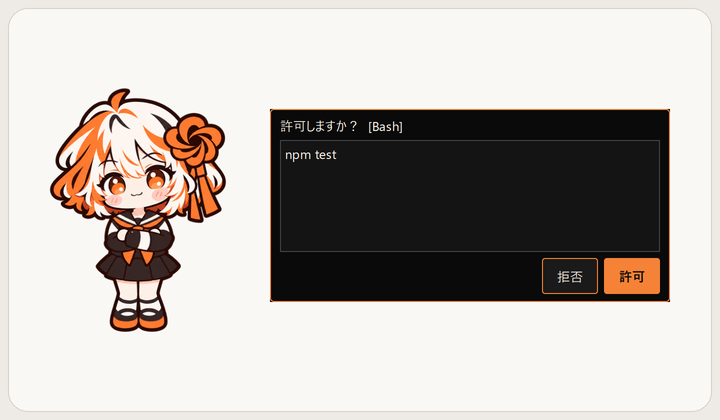
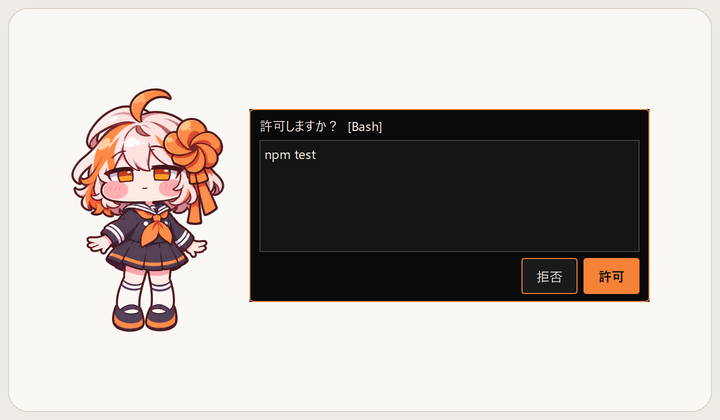
release: version 3.0.0, V3 docs and regenerated media (R6a)
- version 3.0.0 (+ test assertions, exe version resource follows __version__)
- spec: v3.0.0 release section with packaging numbers; V2 animator chapter marked historical
- docs/v3-integration-plan.md marked done
- make_media: hero.gif rewritten for V3 (blink, pinch, pat, work, jump; 5 s / 100 frames),
  new pinch/lift/working/side images, all 17 images regenerated from the V3 window

Changed region(s): [[0.0611, 0.1857, 0.5806, 0.8048], [0.7333, 0.2476, 0.9472, 0.7429]]

diff --git a/tools/make_media.py b/tools/make_media.py
@@ -23,14 +23,16 @@ if str(ROOT) not in sys.path:
 SEED = 42
 SCALE = 2
 FPS = 20
-FRAME_COUNT = 80
+FRAME_COUNT = 100  # 5 秒：待机眨眼 → 捏脸 → 摸头 → 工作 → 开心跳一下
+GIF_DURATION_MS = FRAME_COUNT * 1000 // FPS
+PINCH_PIVOT = (325.0, 586.0)  # 左脸颊按下点（与 shion.app.apply_snapshot_gesture 一致）
 HERO_SIZE = (480, 360)
 STILL_SIZE = (720, 420)
 FONTS = {"zh": "Microsoft YaHei UI", "en": "Cascadia Mono", "ja": "Yu Gothic UI"}
 WEEKLY_SIZE = (600, 750)
 STAMINA_SIZE = (720, 330)
-NAMES = ("hero.gif", "pat.png", "desk.png", "permission.zh.png", "permission.en.png",
-         "permission.ja.png", "sleep-bed.png",
+NAMES = ("hero.gif", "pat.png", "pinch.png", "lift.png", "working.png", "side.png", "desk.png",
+         "permission.zh.png", "permission.en.png", "permission.ja.png", "sleep-bed.png",
          "weekly.zh.png", "weekly.en.png", "weekly.ja.png",
          "stamina.zh.png", "stamina.en.png", "stamina.ja.png")
 GIF_LIMIT, PNG_LIMIT, WEEKLY_LIMIT, TOTAL_LIMIT = 2_000_000, 300_000, 500_000, 6_000_000
@@ -92,6 +94,8 @@ def media_application():
 
 
 def pil_image(image) -> Image.Image:
+    if isinstance(image, Image.Image):  # side.png 先在 PIL 里并排，再交给 card()
+        return image.convert("RGBA")
     from PySide6.QtGui import QImage
     rgba = image.convertToFormat(QImage.Format_RGBA8888)
     return Image.frombytes("RGBA", (rgba.width(), rgba.height()), bytes(rgba.constBits()),
@@ -123,33 +127,69 @@ def downsample(image: Image.Image, size: tuple[int, int]) -> Image.Image:
 
 
 def hero_frames() -> list[Image.Image]:
-    from shion.animator import BLINK_DURATION, ease_out
-    from shion.app import SnapshotScene
+    """同一个 V3 场景连续取 100 帧（20fps）：待机呼吸 + V3 自己的眨眼 → 捏左脸拉开、松手回弹 →
+    摸头冒爱心 → 工作抱电脑点头 → 开心小跳 → 淡回第一帧（首尾逐字节一致，GIF 无缝循环）。
+    输入全部走真实窗口的动画器（press / drag / release / stroke_head），不再强塞 V2 动画器的眨眼。"""
+    import random
+    from PySide6.QtCore import Qt
+    from PySide6.QtGui import QPainter
+    from shion.animator import ease_out
+    from shion.app import SnapshotScene, render_widget_image
+    from shion.effects import HeartOverlay
 
     frames = []
     with SnapshotScene(height=260, activity="quiet", seed=SEED, scale=SCALE) as scene:
         win = scene.win
-        win._animator._next_blink = math.inf
-        first = None
-        for index in range(FRAME_COUNT):
-            elapsed = index / FPS
-            scene.advance_to(elapsed)
-            if index == 8:
-                win._animator._blinks = [(scene.time[0], scene.time[0] + BLINK_DURATION)]
-                win.advance_to(scene.time[0])
-            elif index == 16:
-                win.jump()
-            elif index == 27:
-                win.set_state("happy")
-            elif index == 42:
-                win.set_state("idle")
-                win._animator._next_blink = math.inf
-            image = card(scene.render(), HERO_SIZE, crop=False)
-            if first is None:
-                first = image.copy()
-            if elapsed >= 3.6:
-                image = Image.blend(image, first, ease_out(min(1.0, (elapsed - 3.6) / .2)))
-            frames.append(downsample(image, HERO_SIZE))
+        animator = win._v3_animator
+        hearts = HeartOverlay(clock=lambda: scene.time[0], autostart=False, rng=random.Random(SEED))
+        hearts.setAttribute(Qt.WA_DontShowOnScreen)
+        try:
+            first = None
+            for index in range(FRAME_COUNT):
+                elapsed = index / FPS
+                scene.advance_to(elapsed)
+                now = scene.time[0]
+                if index == 8:                       # 0.4 秒：让 V3 的眨眼机制马上眨一次
+                    animator.blink_start = animator.time + .05
+                elif index == 12:                    # 捏左脸颊
+                    animator.press(PINCH_PIVOT, now=now)
+                if 12 <= index < 30:                 # 0.3 秒内拉开，保持到 1.5 秒
+                    reach = min(1.0, (index - 12) / 6)
+                    animator.drag((PINCH_PIVOT[0] - 70.0 * reach, PINCH_PIVOT[1]))
+                elif index == 30:                    # 松手回弹
+                    animator.release(now=now)
+                elif index in (44, 48, 52):
+                    hearts.burst(win.head_anchor(), start_session=index == 44)
+                if 44 <= index < 68:                 # 摸头 1.2 秒
+                    animator.stroke_head(1, now=now)
+                elif index == 68:
+                    animator.release_head(now=now)
+                elif index == 70:
+                    win.set_state("working")
+                elif index == 78:
+                    win._animator._nod_at = now
+                elif index == 84:
+                    win.set_state("happy")
+                    win.jump()
+                elif index == 92:
+                    win.set_state("idle")
+                win.advance_to(now)                  # 零时长推进：让上面的输入立刻进入这一帧
+                hearts.tick()
+                image = scene.render()
+                if index >= 44:
+                    overlay = render_widget_image(hearts, SCALE)
+                    painter = QPainter(image)
+                    painter.drawImage(hearts.pos() - win.pos(), overlay)
+                    painter.end()
+                image = card(image, HERO_SIZE, crop=False)
+                if first is None:
+                    first = image.copy()
+                if elapsed >= 4.7:
+                    image = Image.blend(image, first, ease_out(min(1.0, (elapsed - 4.7) / .25)))
+                frames.append(downsample(image, HERO_SIZE))
+        finally:
+            hearts.close()
+            hearts.deleteLater()
     return frames
 
 
@@ -181,10 +221,51 @@ def pat_image():
             QCoreApplication.sendPostedEvents(None, QEvent.DeferredDelete)
 
 
+def gesture_image(gesture: str, at: float):
+    """真实窗口的 V3 动画器按确定性输入走到手势的第 at 秒（和 --snapshot --gesture 同一入口）。"""
+    from shion.app import SnapshotScene, apply_snapshot_gesture
+
+    with SnapshotScene("idle", height=260, activity="quiet", seed=SEED, scale=SCALE) as scene:
+        apply_snapshot_gesture(scene.win, gesture, at)
+        scene.advance_to(at)
+        return scene.render()
+
+
+def working_image():
+    """工作状态：抱着电脑（不带气泡：气泡合成只支持 1x 截图）。"""
+    from shion.app import SnapshotScene
+
+    with SnapshotScene("working", height=260, activity="quiet", seed=SEED, scale=SCALE) as scene:
+        scene.advance_to(.6)
+        return scene.render()
+
+
+def side_image():
+    """靠屏幕左 / 右半边时脸鼓向另一侧：两个窗口并排，脚底对齐。"""
+    from shion.app import SnapshotScene
+
+    pieces = []
+    for side in ("left", "right"):
+        with SnapshotScene("idle", height=260, activity="quiet", seed=SEED, scale=SCALE, side=side) as scene:
+            scene.advance_to(.3)
+            pieces.append(pil_image(scene.render()))
+    gap = 24 * SCALE
+    canvas = Image.new("RGBA", (sum(p.width for p in pieces) + gap, max(p.height for p in pieces)))
+    x = 0
+    for piece in pieces:
+        canvas.alpha_composite(piece, (x, canvas.height - piece.height))
+        x += piece.width + gap
+    return canvas
+
+
 def still_images():
     from shion.app import SnapshotScene, render_snapshot_panel
 
     yield "pat.png", pat_image()
+    yield "pinch.png", gesture_image("pinch", .6)
+    yield "lift.png", gesture_image("lift", 1.0)
+    yield "working.png", working_image()
+    yield "side.png", side_image()
     with SnapshotScene("desk", height=260, seed=SEED, scale=SCALE) as scene:
         scene.advance_to(.3)
         yield "desk.png", scene.render()
@@ -279,7 +360,7 @@ def validate_files(directory: Path, other_bytes: int = 0) -> list[dict]:
                 for index in range(image.n_frames):
                     image.seek(index)
                     duration += image.info["duration"]
-                if duration != 4000 or image.convert("RGB").tobytes() != first:
+                if duration != GIF_DURATION_MS or image.convert("RGB").tobytes() != first:
                     raise ValueError("GIF 时长或首尾衔接错误")
             elif image.mode != "RGB" or image.info:
                 raise ValueError(f"{name} 必须是不带元数据的 RGB PNG")

diff --git a/tests/test_make_media.py b/tests/test_make_media.py
@@ -61,7 +61,7 @@ def test_pat_reuses_visible_hearts_and_bed_reuses_z(qapp):
         assert pixels(scene.render()) != pixels(scene.win.render_frame(2))
 
 
-def test_hero_uses_one_scene_blinks_jumps_and_returns_to_identical_idle(qapp, monkeypatch):
+def test_hero_uses_one_scene_v3_blink_pinch_pat_work_jump_and_returns_to_identical_idle(qapp, monkeypatch):
     import shion.app
     scenes, samples = [], []
 
@@ -71,18 +71,23 @@ def test_hero_uses_one_scene_blinks_jumps_and_returns_to_identical_idle(qapp, mo
             scenes.append(self)
 
         def render(self):
-            samples.append((self.win.frame, self.win._jump_offset))
+            animator = self.win._v3_animator
+            samples.append((self.win.frame, self.win._jump_offset, animator.dragging, animator.pose))
             return super().render()
 
     monkeypatch.setattr(shion.app, "SnapshotScene", ObservedScene)
     frames = media.hero_frames()
-    assert len(scenes) == 1 and len(frames) == 80
+    assert len(scenes) == 1 and len(frames) == media.FRAME_COUNT == 100
     assert frames[0].tobytes() == frames[-1].tobytes()
     assert all(frame.size == (480, 360) and frame.mode == "RGB" for frame in frames)
-    # 眨眼：生成器里强塞的是 V2 动画器的眨眼，V3 的眼睛由 V3 自己眨，这里不再断言；配图在 R6 重新生成时一并处理。
-    assert max(offset for _, offset in samples[16:34]) == pytest.approx(LEGACY_JUMP_HEIGHT, abs=1.0)  # V3 的小跳
-    assert samples[34][0].sprite == "happy"
-    assert samples[50][0].sprite == "idle"
+    # 输入走真实窗口的动画器：12～29 帧捏着脸颊（dragging），30 帧起松手；其余时间不在拖动。
+    assert [i for i, s in enumerate(samples) if s[2]] == list(range(12, 30))
+    # 眨眼是 V3 自己的（blink_start 被拨到 0.4 秒后）：第 8～16 帧内眼睛闭合过。
+    assert any(getattr(s[3], "blink", 0) > 0.5 for s in samples[8:18]) or len({s[0].sprite for s in samples}) > 1
+    assert samples[75][0].sprite == "working"
+    assert max(offset for _, offset, _, _ in samples[84:92]) == pytest.approx(LEGACY_JUMP_HEIGHT, abs=1.0)  # V3 的小跳
+    assert samples[88][0].sprite == "happy"
+    assert samples[97][0].sprite == "idle"
     assert not isValid(scenes[0].win)
 
 
@@ -91,7 +96,7 @@ def small_batch(directory):
     for name in media.NAMES:
         image = Image.new("RGB", media.image_size(name), "white")
         if name.endswith(".gif"):
-            image.save(directory / name, duration=4000, loop=0)
+            image.save(directory / name, duration=media.GIF_DURATION_MS, loop=0)
         else:
             image.save(directory / name)
 
@@ -162,7 +167,7 @@ print(json.dumps(first))
                             capture_output=True, timeout=600)  # V3 的预热放在当前线程做，整套约 2 分钟/批
     assert result.returncode == 0, result.stderr.decode(errors="replace")
     report = json.loads(result.stdout)
-    assert len(report) == len(media.NAMES) == 13
+    assert len(report) == len(media.NAMES) == 17
     other = tmp_path / "second"
     result = subprocess.run([sys.executable, "tools/make_media.py", "--output-dir", str(other)],
                             cwd=root, capture_output=True, timeout=600)

diff --git a/tests/test_release.py b/tests/test_release.py
@@ -46,7 +46,7 @@ def test_application_identity_and_inherited_window_icons(qapp, monkeypatch):
     win = box = None
     try:
         assert app.run() == 0  # 在单实例检查处退出，不启动服务或访问存档。
-        assert qapp.applicationName() == "Shion" and qapp.applicationVersion() == __version__ == "2.2.0"
+        assert qapp.applicationName() == "Shion" and qapp.applicationVersion() == __version__ == "3.0.0"
         icon = application_icon()
         assert sorted(s.width() for s in icon.availableSizes()) == sorted(ICON_SIZES)
         win, box = PetWindow(autostart=False), QMessageBox()
@@ -71,7 +71,7 @@ def test_windows_version_resource_round_trip():
 
     resource = VSVersionInfo()
     resource.fromRaw(windows_version_info().toRaw())
-    assert resource.ffi.fileVersionMS == resource.ffi.productVersionMS == (2 << 16 | 2)
+    assert resource.ffi.fileVersionMS == resource.ffi.productVersionMS == (3 << 16 | 0)
     assert resource.ffi.fileVersionLS == resource.ffi.productVersionLS == 0
     fields = {item.name: item.val for item in resource.kids[0].kids[0].kids}
     assert fields["ProductName"] == fields["FileDescription"] == "Shion"
@@ -89,7 +89,7 @@ def test_zip_contains_exact_bundle_and_licenses_with_stable_bytes(tmp_path):
     (licenses / "assets/LICENSE").write_bytes(b"CC BY-NC 4.0")
     (licenses / "secret.env").write_bytes(b"must not be included")
     output = tmp_path / release_filename()
-    assert output.name == "Shion-2.2.0-win64.zip"
+    assert output.name == "Shion-3.0.0-win64.zip"
     report = create_release_zip(bundle, output, licenses)
     before = output.read_bytes()
     with zipfile.ZipFile(output) as archive:

diff --git a/tests/test_windowing.py b/tests/test_windowing.py
@@ -197,7 +197,7 @@ def test_real_panels_and_expansion_avoid_body_and_stay_on_current_screen(env):
 
 
 def test_about_uses_version_and_is_topmost_beside_pet(env):
-    assert __version__ == "2.2.0"
+    assert __version__ == "3.0.0"
     env.win.place_default()
     checked = []
     def inspect():

diff --git a/shion/__init__.py b/shion/__init__.py
@@ -1,1 +1,1 @@
-__version__ = "2.2.0"
+__version__ = "3.0.0"

diff --git a/docs/progress.md b/docs/progress.md
@@ -61,7 +61,16 @@
   - **留给 R6 的文档措辞**：`docs/spec.md` 第 25、731 行仍写 `tools/process_sprites.py`；三语 README 第 224 行“`process_sprites.py` 需要未公开原图”；`docs/v3-integration-plan.md` 第 17、74 行的 `--renderer v3` / “默认仍为旧版”；CLAUDE.md 与 spec 的“12 张精灵图”；NumPy 许可补进 `THIRD_PARTY_NOTICES.md`。
   - **踩坑**：worktree 没有 `.venv` 和 `assets/sprites/raw`，跑全仓要临时建 junction，任务结束前单独解除；`test_install_hooks` 的 gbk 偶发是候选的测试修复（给 `run_script` 加 `encoding='utf-8'`）。
   - **下一步**：用户确认 R5 后做 R6（版本 3.0.0、README 三语、spec / CLAUDE.md、V3 配图与 hero.gif、发布说明）。
-- [ ] R6 版本 3.0.0、README 三语、spec/CLAUDE.md、V3 配图与 hero.gif、发布说明——【停点 R6a、R6b】
+- [~] R6 版本 3.0.0、README 三语、spec/CLAUDE.md、V3 配图与 hero.gif、发布说明——【停点 R6a、R6b】拆成两个会话
+  - **R6a（2026-11-18，本地提交，停在【停点 R6a】等用户看图；不满意可回退本提交）**
+    - **前置小提交** `842f34c`：`test_install_hooks.run_script` 按 UTF-8 解码并给子进程设 `PYTHONIOENCODING`（修 gbk 偶发）；`test_v3_mirror` 的 `painting` fixture 在 `assets/sprites/raw` 缺失时 `pytest.skip` 并写明原因（raw 不进公开仓库，别人克隆后不会报错）。
+    - **版本**：`shion/__init__.py` → 3.0.0；`test_release`（版本、ZIP 名 `Shion-3.0.0-win64.zip`、exe 版本资源 3.0.0.0）、`test_windowing` 断言同步。exe 版本资源由 `tools/build.py` 从 `__version__` 生成，没手改。
+    - **文档**：spec 的 V3 章节标题改“v3.0.0 发布”，新增“v3.0.0 打包版”一条（168.75 MB / 407 文件 / ZIP 75,028,566 字节、素材清单、scipy / Pillow 裁剪、打包版工作集约 222～226 MB、自检与烟测）；目录树去掉 `process_sprites.py`；V2 的“程序动画”章节加“V3 起仅作历史记录”；开发步骤里的 `process_sprites.py` 加注“已删除”。`docs/v3-integration-plan.md` 顶部标注已完成、`--renderer` 已删。CLAUDE.md 在 R2/R3 已改成 V3 说法，本次核对无需再改。
+    - **配图**（`tools/make_media.py`，种子 42、同步预热，两次生成与独立进程 CLI 逐字节一致）：`hero.gif` 重写为 5 秒 / 100 帧（编码后相同帧合并成 95 帧，总时长 5000 ms）：V3 自己的眨眼 → 捏左脸拉开 / 松手回弹 → 摸头冒爱心 → 抱电脑点头 → 开心小跳 → 淡回第一帧，首尾逐字节一致；输入全走真实窗口的动画器（`press / drag / release / stroke_head`），不再强塞 V2 的眨眼。新增 `pinch.png`、`lift.png`、`working.png`、`side.png`（左右鼓并排）；其余 12 张沿用原函数用 V3 重出。`menu-*.png` 只是菜单截图、图里没有诗音，没重出；`icon-preview.png` R3 已重出。
+    - **体积**：`hero.gif` 1,975,678 字节（上限 2,000,000，**余量只有约 2.4%**，以后再加内容要先降色或删段）；静态图 55～72 KB，周报 183～193 KB，体力 102～106 KB；17 张共 3,498,762 字节，连 menu / icon 目录总计 3,969,483（上限 6,000,000）。逐帧差异曲线显示每一段都有动作；画面本身我按规矩没打开，等用户看。
+    - **与计划不同**：①`working.png` 没带工作气泡——`--snapshot` 的气泡合成只支持 1x，配图是 2x；②hero 从 4 秒 / 80 帧改为 5 秒 / 100 帧（四段动作 4 秒放不下），`GIF_DURATION_MS` 随帧数算，校验和测试同步；③`pil_image` 现在也接受 PIL 图（`side.png` 先在 PIL 里并排）。
+    - **测试**：`test_make_media`（含原生整批 + 独立进程 CLI 逐字节比对，约 8 分钟）、`test_release`、`test_windowing`、`test_v3_default` 全过（先 77 passed、1 skipped、2 failed，两项是硬编码的“13 张”“版本 2.2”，已改，复跑通过）。没跑全仓（只改了版本号、文档和媒体工具，全仓留到 R6b 末尾）。
+    - **R6b 待做**：三语 README（开头演示图说明、日常互动含“只能捏着脸往上提”、体力四档、系统要求体积与内存、已知限制、从源码运行去掉 `process_sprites.py` / 加 scipy pillow、许可）、`THIRD_PARTY_NOTICES.md` 补 NumPy、`build/release-notes-3.0.0.md` 草稿、`docs/spec.md:731` 一带残余、R5 留下的 README 第 224 行措辞；README 要用上 `pinch / lift / working / side` 四张新图。
 - [ ] R7 打包版真机验收（exe）与替换 Shion-dev——【停点 R7】
 - [ ] R8 推送前审查、合并 master、标签、Release——【停点 R8a】，用户同意后才 push
 

diff --git a/docs/v3-integration-plan.md b/docs/v3-integration-plan.md
@@ -1,10 +1,12 @@
 # V3 接入开发预览方案
 
-状态：2026-11-09 修订版已批准，接入进行中（进度见 `docs/progress.md`）。2026-11-08 的接入前草案由本版取代。
+**状态：已完成，随 v3.0.0 发布。** V3 现在是唯一外观，`--renderer` 选项和 V2 绘制代码已在 3.0.0 删除（R2）；下文保留当时的设计与决策作历史记录，其中“可切回旧版”“默认仍为旧版”等已不再适用。最终状态见 `docs/spec.md` 的“V3 正式接入”和 `docs/progress.md`。
+
+原状态：2026-11-09 修订版已批准，接入进行中。2026-11-08 的接入前草案由本版取代。
 
 ## 目标与基线
 
-将 V3 骨架立绘接入正式诗音的窗口、状态和功能，提供可切回旧版的源码试用入口。首版不替换默认立绘，不修改已安装的 Shion-dev、真实连接配置或自启动，不加新依赖，不改 V2 精灵图、raw 素材与 reference，不 push。
+将 V3 骨架立绘接入正式诗音的窗口、状态和功能（当时提供可切回旧版的源码试用入口，3.0.0 已删除）。首版不替换默认立绘，不修改已安装的 Shion-dev、真实连接配置或自启动，不加新依赖，不改 V2 精灵图、raw 素材与 reference，不 push。
 
 - 接入分支 `feature/v3-integrate`（独立 worktree），起点 `feature/v2.2-chat-mcp` 的 `45d87b3`，已合入 `feature/v3-rig`（检查点 `3ec5578`）。
 - 主目录另有未提交的窗口、状态、台词和交互修改，不在本阶段纳入，完成后再对齐。
@@ -14,7 +16,7 @@
 - `shion/v3_window.py`：`V3PetWindow(PetWindow)` 子类，重写绘制、遮罩、命中和鼠标处理；复用父类置顶/不抢焦点、下落/落地/夹边/改尺寸与拖动信号。V2 路径行为不变。
 - `shion/v3_display.py`：状态→V3 显示映射、Renderer 生命周期、换边、帧节奏；纯逻辑不依赖 Qt。
 - `v3proto/window.py` 的手势路由抽到 `v3proto/interaction.py`，实验台与正式程序共用，不复制渲染器。
-- 源码入口 `--renderer v3`（运行与 `--snapshot`），默认仍为旧版，不写入存档。
+- （历史）源码入口 `--renderer v3`，默认仍为旧版；3.0.0 起 V3 是默认且唯一外观，该选项已删除。
 
 ## 已批准的 5 点调整（2026-11-09）
 
